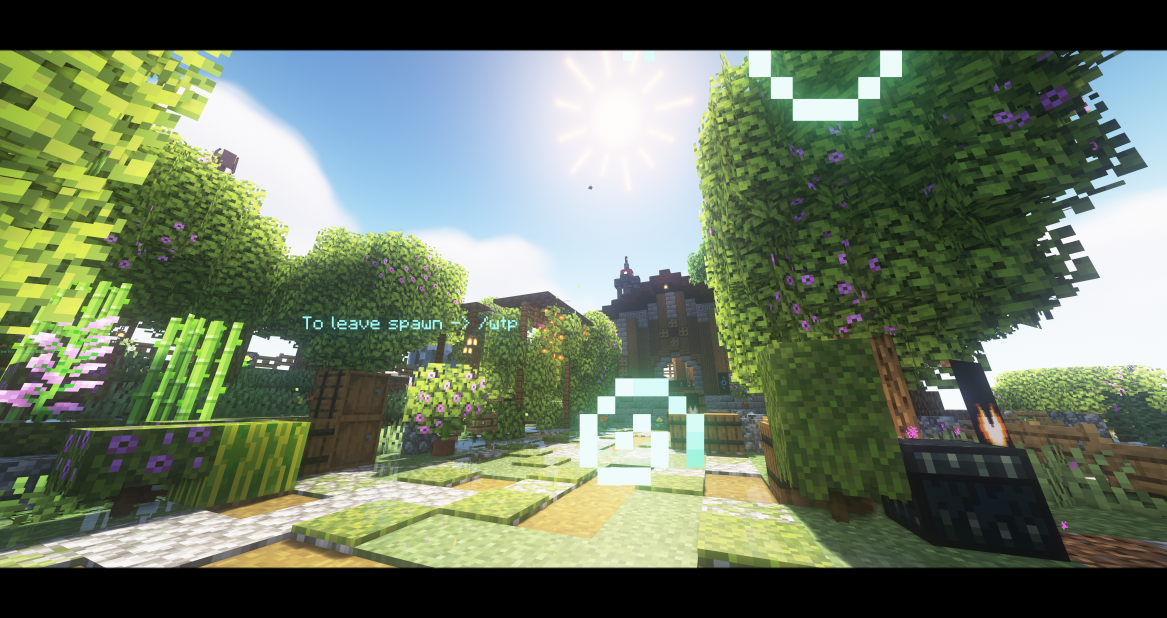
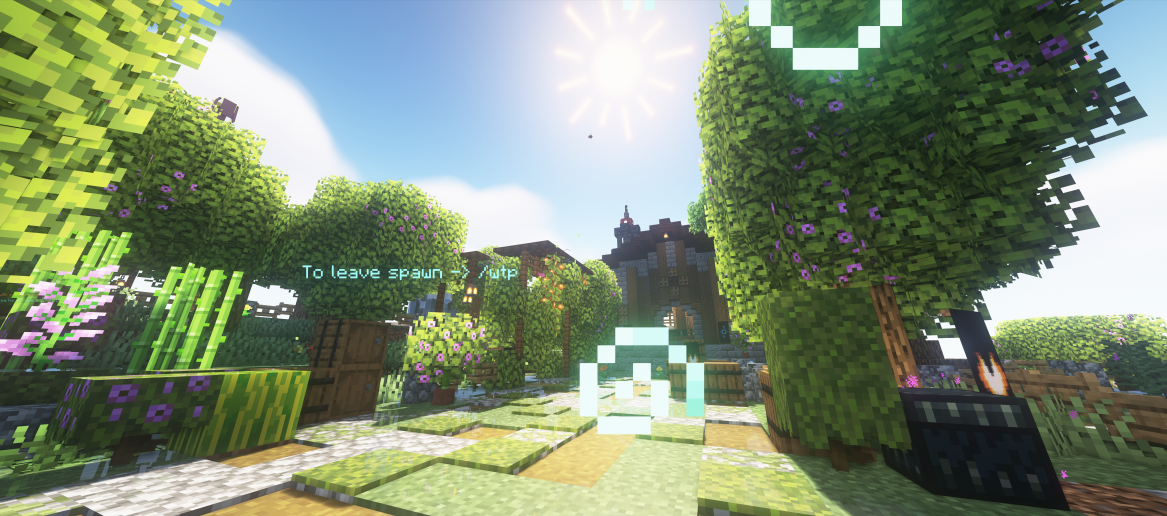
Kinda integrated a carousel

diff --git a/carousel.js b/carousel.js
@@ -1,0 +1,53 @@
+// const slides = document.querySelectorAll('.slide');
+// let index = 0;
+
+// function prevSlide(){
+//     slides[index].classList.remove('active');
+//     index--;
+
+//     if(index < 0)
+//         index = slides.length -1;
+
+//     slides[index].classList.add('active');      
+// }
+
+// document.querySelector('.prev').addEventListener('click', e => {
+//     prevSlide();
+// });
+
+// function nextSlide(){
+//     slides[index].classList.remove('active');
+//     index++;
+
+//     if(index > slides.length -1)
+//         index = 0;
+
+//     slides[index].classList.add('active');      
+// }
+
+// document.querySelector('.next').addEventListener('click', e => {
+//     nextSlide();
+// });
+
+setTimeout(1000);
+slide();
+
+function slide(){
+    document.getElementById('slide')
+    setTimeout("slide1()", 3000);
+}
+
+function slide1(){
+    document.getElementById('slide').style="background-image: url(assets/banners/spawn2.PNG);"
+    setTimeout("slide2()", 3000);
+}
+
+function slide2(){
+    document.getElementById('slide').style="background-image: url(assets/banners/spawn3.PNG);"
+    setTimeout("slide3()", 3000);
+}
+
+function slide3(){
+    document.getElementById('slide').style="background-image: url(assets/banners/spawn4.PNG);"
+    setTimeout("slide1()", 3000);
+}

diff --git a/index.html b/index.html
@@ -1,12 +1,12 @@
-
 <!DOCTYPE html>
 <html>
     <head>
         <title>JadeCraft SMP</title>
         <meta charset="UTF-8">
         <link rel="stylesheet" href="style.css">
+        <script src="carousel.js"></script>
     </head>
-    <body>
+    <body id="slide">
         <div class="navbar">
             <!-- Left justified items -->
             <div>
@@ -16,7 +16,7 @@
 
             <!-- Center justified -->
             <a href="index.html">
-                <img class="logo" src="assets/logo.png" style="height:100px;">
+                <img class="logo" src="assets/logo.png" style="height:120px; width: 120px;">
             </a>
 
             <!-- Right justified items -->
@@ -25,7 +25,5 @@
                 <a href="jadecraftsmp.net">Store</a>
             </div>
         </div>
-        wow this is an awesome website<br>
-        join jadecraft cause gamer
     </body>
 </html>

diff --git a/style.css b/style.css
@@ -9,19 +9,20 @@ body {
     margin: 0px;
     padding: 0px;
     background-color: var(--light-color);
-    background-image: url(assets/banners/spawn8.PNG);
+    background-image: url(assets/banners/spawn4.PNG);
     background-attachment: fixed;
     background-position: top;
+    background-repeat: no-repeat;
+    background-size: 100%;
     /* Get better font */
     font-family: 'Prompt', sans-serif;
 }
-  
+
 .navbar {
     background-color: rgba(255, 255, 255, 0.3);;
     display:flex;
     align-items:center;
 }
-  
 .navbar div {
     display: flex;
     align-items: center;
@@ -36,6 +37,11 @@ body {
     text-decoration: none;
     color: var(--dark-color);
     font-size: x-large;
+    font-weight: bold;
     list-style-type: none;
-    /* margin:0 2%; */
 }
+/* #slide{
+    margin:0px;
+    width:100%;
+    position: fixed;
+} */
